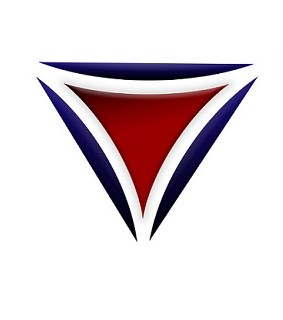
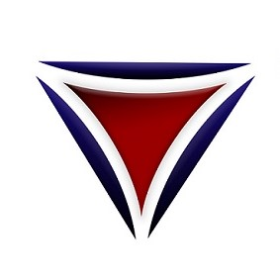
Updates
Added info to help page and changed icon to one with rounded edges.

Changed region(s): [[0.1143, 0.1714, 0.9143, 0.8571]]

diff --git a/QuestionGUI.py b/QuestionGUI.py
@@ -103,7 +103,8 @@ class QuestionGUI():
 
         # TODO FILL OUT INSTRUCTIONS WITH THE INFO NEEDED
         self.instructions = ttk.Label(self.helpWindow,
-                                      text='The CPI Tool is used to fill out the CPI form. For this ... cont') 
+                                      font=('Times New Roman', 16),
+                                      text='The Critical Program Information (CPI) Tool is used to help fill out the CPI form.\n\nStart:\nThe CPI Tool asks for a name for the utility that you are testing. It uses this name to create the save file and data for your tool. You may also look at the drop-down menu to select\nany previously saved files.\n\nQuestions:\nWhen you select the start button the tool will prompt you with questions.\n\nButtons:\nThe yes and no buttons will let you answer yes and no to the questions.\nThe info button will display information that is useful pertaining to the current question that you are on.\nThe flag button presents you with two options and a dialogue box. The dialogue box allows you to add notes to any question you would like. If you want to just add notes and go back to\nthe question you can press the ‘Ok’ button in the box. The skip button will add the notes and push the current question and the rest of the current question map that you are on to the\nend of the program.\nThe pause button will save your progress for you to continue later.\nCritical:\nWhen you land on a ‘critical’ the program will prompt you to enter why you believe it was critical. This will be stored and entered in the final report.\n\nReport:\nAll reports generated will be saved in the ‘Reports’ folder in the working directory. Inside the folder there will be folders with the names of the utilities that you have tested. These folders\nwill hold a ‘.cpi’ file as a save file and when you finish with a report a pdf with the questions that you answered as well as the notes that you entered will be generated.') 
         self.back = ttk.Button(self.helpWindow,
                                text='Back',
                                command=self.helpWindow.destroy)

diff --git a/saveQuestions.py b/saveQuestions.py
@@ -125,7 +125,7 @@ class saveQuestions():
         if text != '':
             textcan = canvas.Canvas(stringPacket, pagesize=(792, 612))
             textobj = textcan.beginText(10, 550)
-            textobj.setFont('Helvetica', 12)
+            textobj.setFont('Times New Roman', 12)
             text = text.split('\n')
             for line in text:
                 textobj.textLine(line)
